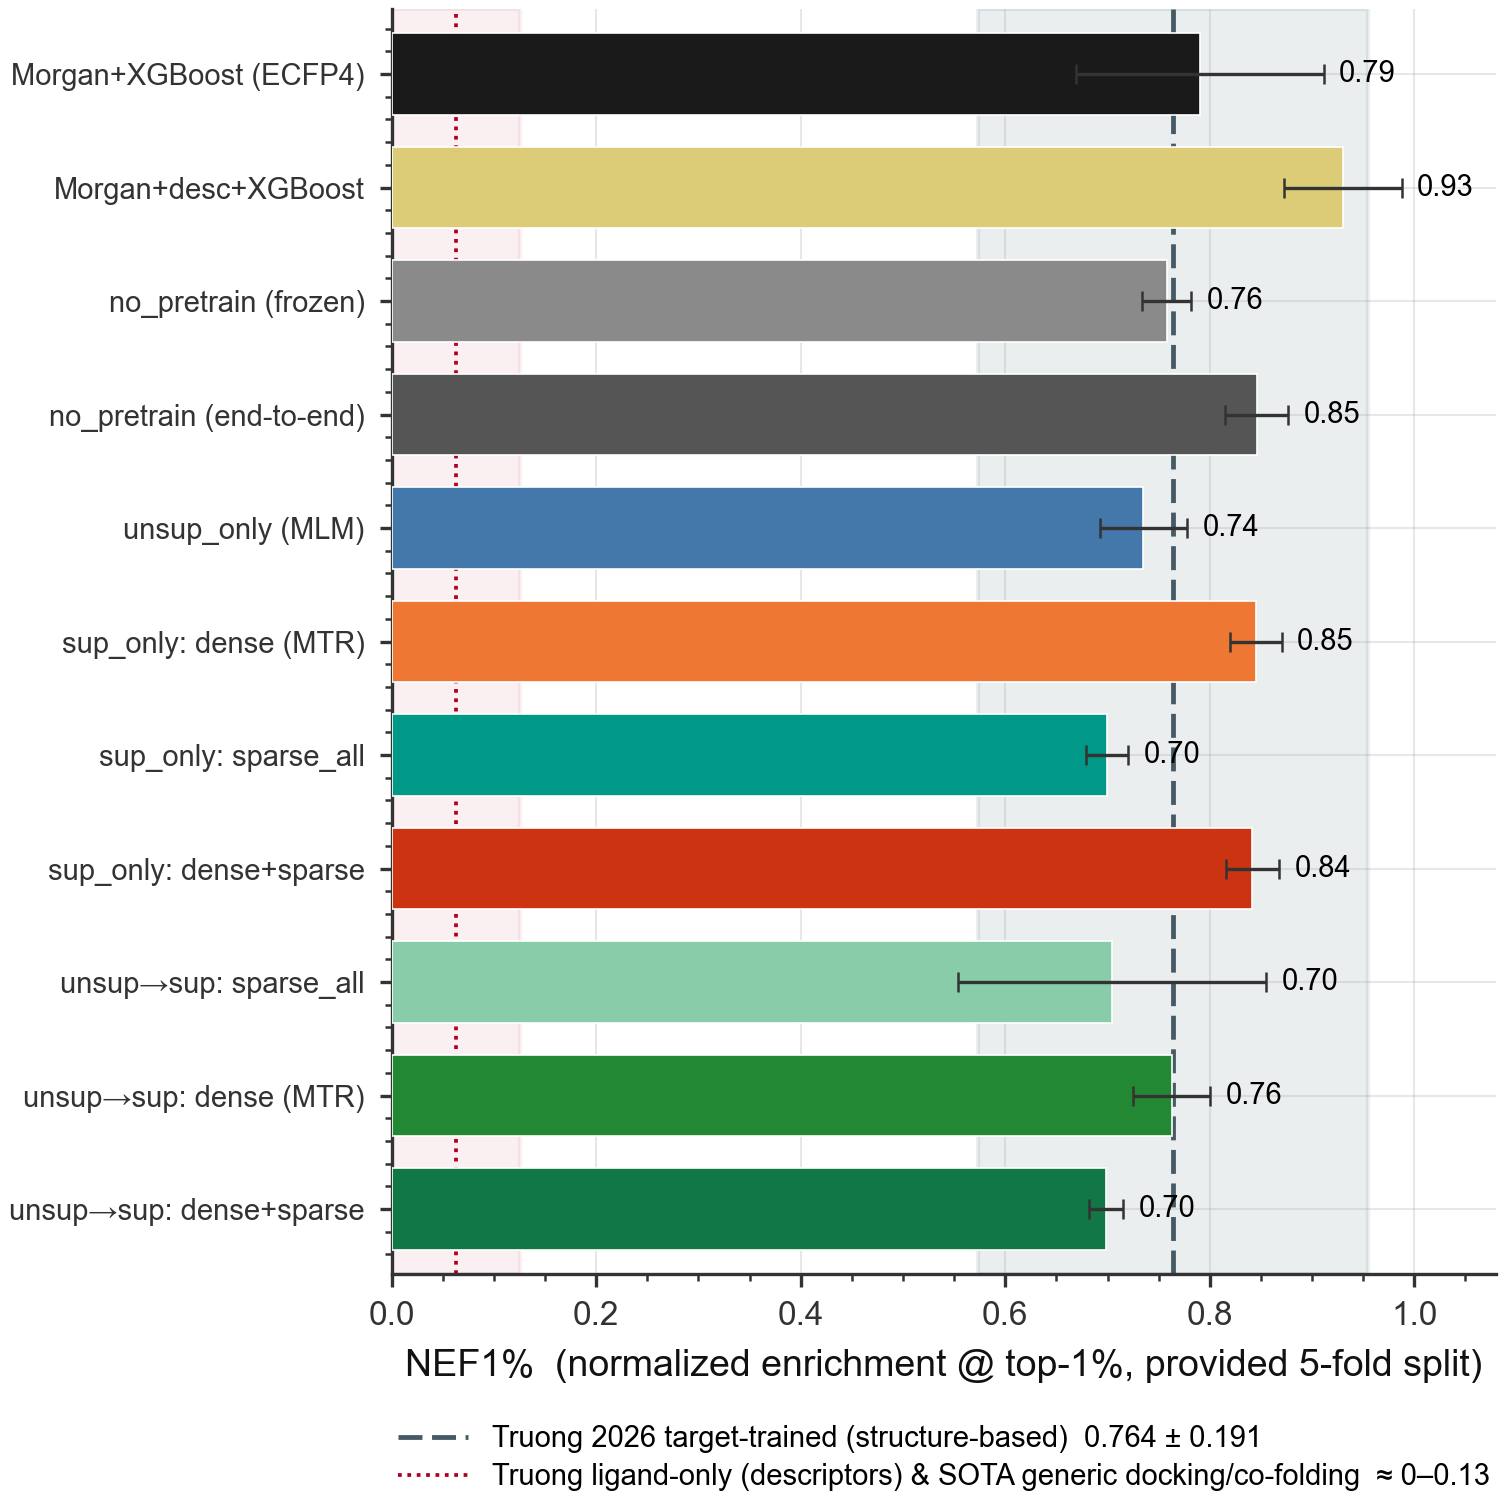
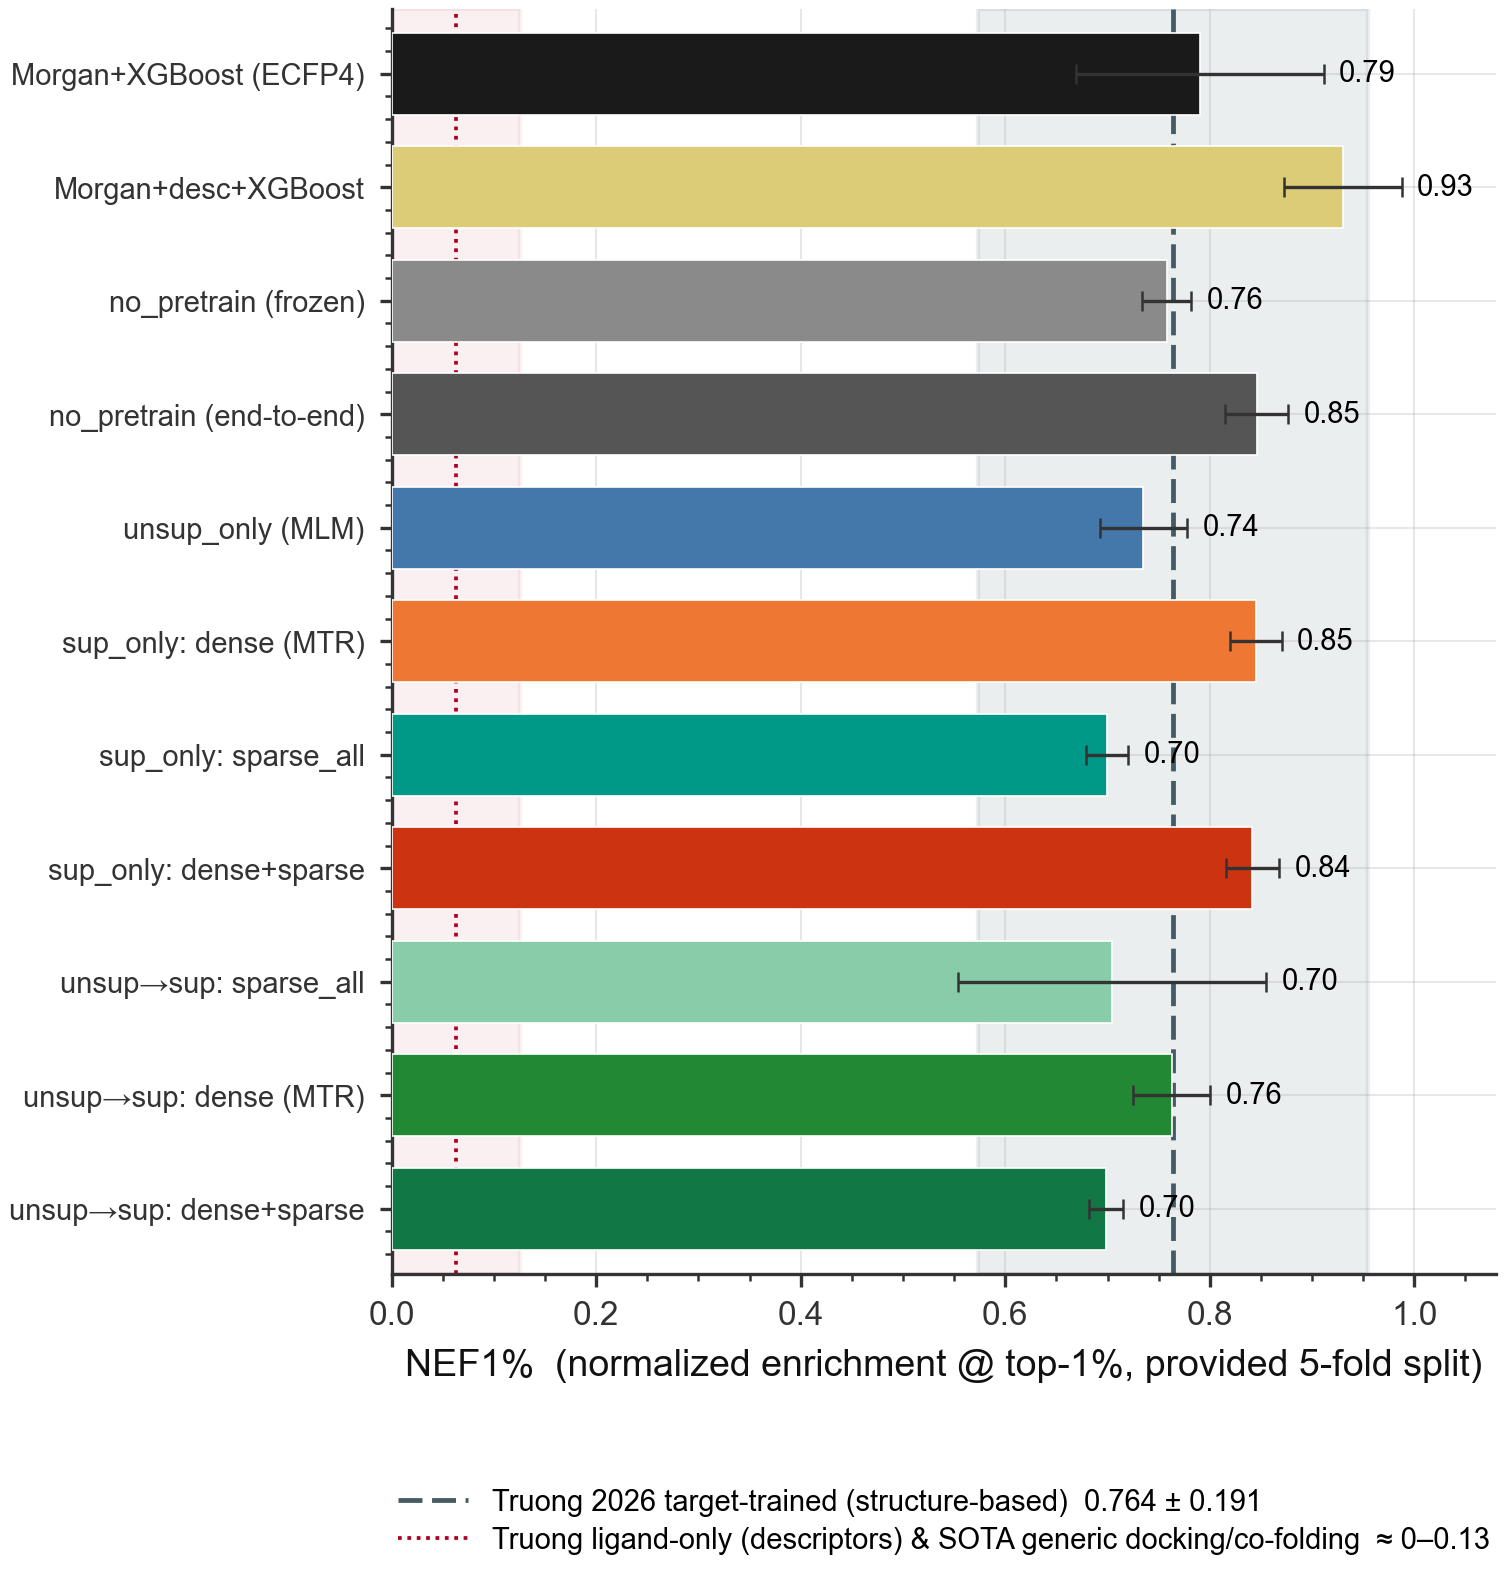
figCBS: move the reference-line legend below the x-axis label (was overlapping)

diff --git a/notebook_cells/42.py b/notebook_cells/42.py
@@ -43,7 +43,8 @@ if _cbs_arms:
     _h=[plt.Line2D([],[],color="#455a64",ls=(0,(5,2)),lw=1.15,label=_tt_lab),
         plt.Line2D([],[],color="#B00020",ls=(0,(1,1.5)),lw=0.9,
                    label="Truong ligand-only (descriptors) & SOTA generic docking/co-folding  ≈ 0–0.13")]
-    ax.legend(handles=_h,loc="upper center",bbox_to_anchor=(0.5,-0.11),fontsize=STYLE["fs_legend"]-0.5,
+    # legend BELOW the x-axis label (outside the plot) so it can't overlap the bars
+    ax.legend(handles=_h,loc="upper center",bbox_to_anchor=(0.5,-0.16),fontsize=STYLE["fs_legend"]-0.5,
               framealpha=0.0,handlelength=2.4,ncol=1,borderaxespad=0.0)
     ax.margins(y=0.02)
     _suptitle(fig,"External validation — CBS inhibitor virtual screening (Truong 2026 benchmark)",
